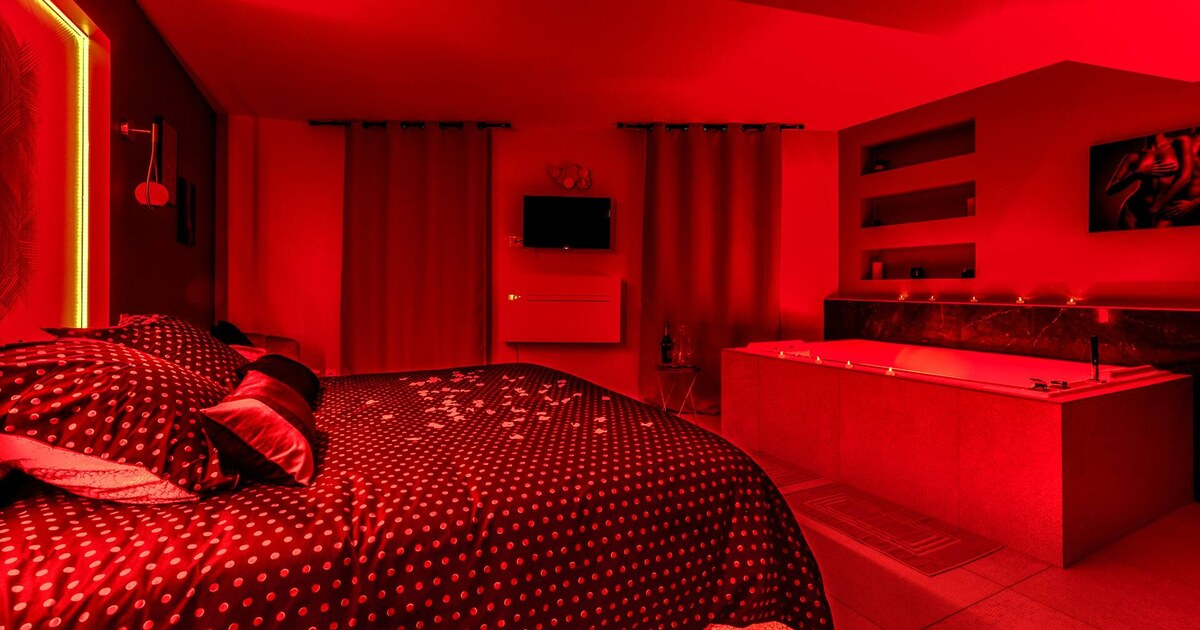
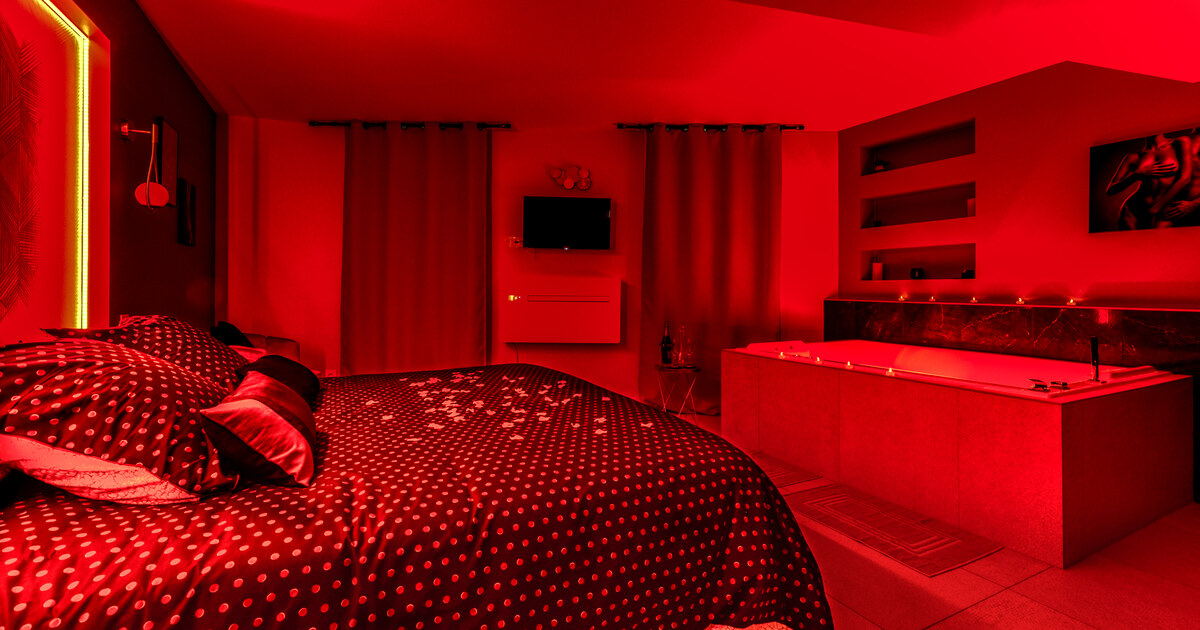
Ô Lit Divin : photo d'accueil refaite depuis l'original 3000 px (WebP 1280/1920/2560)

diff --git a/litdivin/index.html b/litdivin/index.html
@@ -19,7 +19,7 @@
 <meta name="twitter:card" content="summary_large_image">
 <link rel="preload" href="fonts/cormorant.woff2" as="font" type="font/woff2" crossorigin>
 <link rel="preload" href="fonts/jost.woff2" as="font" type="font/woff2" crossorigin>
-<link rel="preload" href="img/suite-romantique-lumiere-rouge-lit-king-size-balneo-carcassonne.jpg" as="image" fetchpriority="high">
+<link rel="preload" as="image" imagesrcset="img/suite-romantique-lumiere-rouge-lit-king-size-balneo-carcassonne-1280.webp 1280w, img/suite-romantique-lumiere-rouge-lit-king-size-balneo-carcassonne-1920.webp 1920w, img/suite-romantique-lumiere-rouge-lit-king-size-balneo-carcassonne-2560.webp 2560w" imagesizes="(max-aspect-ratio: 3/2) 150vh, 100vw" fetchpriority="high">
 <script type="application/ld+json">{"@context":"https://schema.org","@type":"LodgingBusiness","name":"Ô Lit Divin","alternateName":"Ô Lit Divin, Instant de volupté, balnéo et sauna","url":"https://litdivin.fr/","image":["https://litdivin.fr/img/o-lit-divin-suite-balneo-sauna-carcassonne-partage.jpg","https://litdivin.fr/img/chambre-lit-king-size-baignoire-balneo-o-lit-divin-carcassonne.jpg"],"description":"Suite romantique pour deux adultes avec baignoire balnéo XXL et sauna privés, lit king size et cheminée électrique, au pied de la Cité médiévale de Carcassonne.","telephone":"+33603523184","email":"lesgitesdelaure@gmail.com","address":{"@type":"PostalAddress","addressLocality":"Carcassonne","postalCode":"11000","addressRegion":"Occitanie","addressCountry":"FR"},"priceRange":"À partir de 105 € la nuit","checkinTime":"17:00","checkoutTime":"12:00","petsAllowed":false,"smokingAllowed":false,"numberOfRooms":1,"brand":{"@type":"Brand","name":"Les Gîtes de Laure"},"amenityFeature":[{"@type":"LocationFeatureSpecification","name":"Baignoire balnéo privée","value":true},{"@type":"LocationFeatureSpecification","name":"Sauna privé","value":true},{"@type":"LocationFeatureSpecification","name":"Lit king size","value":true},{"@type":"LocationFeatureSpecification","name":"Climatisation","value":true},{"@type":"LocationFeatureSpecification","name":"Cuisine équipée","value":true},{"@type":"LocationFeatureSpecification","name":"Wi-Fi","value":true},{"@type":"LocationFeatureSpecification","name":"Stationnement gratuit dans la rue","value":true}]}</script>
 <style>
 @font-face{font-family:'Cormorant';src:url(fonts/cormorant.woff2) format('woff2');font-weight:300 600;font-style:normal;font-display:swap}
@@ -123,7 +123,7 @@ main{overflow-x:clip}
 /* La photo et son voile s'effacent vers le bas pour se fondre dans le fond de page, sans bord net */
 .hero-img,.hero::before{-webkit-mask-image:linear-gradient(to bottom,#000 62%,rgba(0,0,0,.6) 82%,transparent);mask-image:linear-gradient(to bottom,#000 62%,rgba(0,0,0,.6) 82%,transparent)}
 .hero-img img{width:100%;height:100%;object-fit:cover;object-position:62% 55%;animation:kb 22s var(--ease) both}
-@keyframes kb{from{transform:scale(1.12)}to{transform:scale(1)}}
+@keyframes kb{from{transform:scale(1.06)}to{transform:scale(1)}}
 .hero::before{content:"";position:absolute;inset:0;z-index:-1;background:
   radial-gradient(120% 90% at 85% 40%,transparent 0 30%,rgba(8,6,5,.55) 75%),
   linear-gradient(90deg,rgba(8,6,5,.88) 0%,rgba(8,6,5,.55) 42%,rgba(8,6,5,.05) 72%),
@@ -463,7 +463,7 @@ footer a:hover{color:var(--gold2)}
 
 <main>
 <section class="hero" id="accueil">
-  <div class="hero-img"><img src="img/suite-romantique-lumiere-rouge-lit-king-size-balneo-carcassonne.jpg" width="1920" height="1281" alt="Ô Lit Divin, suite romantique à Carcassonne : lit king size et baignoire balnéo en lumière rouge tamisée" data-en-alt="Ô Lit Divin, romantic suite in Carcassonne: king-size bed and whirlpool bath in soft red light" fetchpriority="high"></div>
+  <div class="hero-img"><img src="img/suite-romantique-lumiere-rouge-lit-king-size-balneo-carcassonne.jpg" srcset="img/suite-romantique-lumiere-rouge-lit-king-size-balneo-carcassonne-1280.webp 1280w, img/suite-romantique-lumiere-rouge-lit-king-size-balneo-carcassonne-1920.webp 1920w, img/suite-romantique-lumiere-rouge-lit-king-size-balneo-carcassonne-2560.webp 2560w" sizes="(max-aspect-ratio: 3/2) 150vh, 100vw" width="1920" height="1281" alt="Ô Lit Divin, suite romantique à Carcassonne : lit king size et baignoire balnéo en lumière rouge tamisée" data-en-alt="Ô Lit Divin, romantic suite in Carcassonne: king-size bed and whirlpool bath in soft red light" fetchpriority="high"></div>
   <div class="wrap">
     <div class="hero-in">
       <span class="eyebrow" data-en="Instant of pleasure">Instant de volupté</span>
